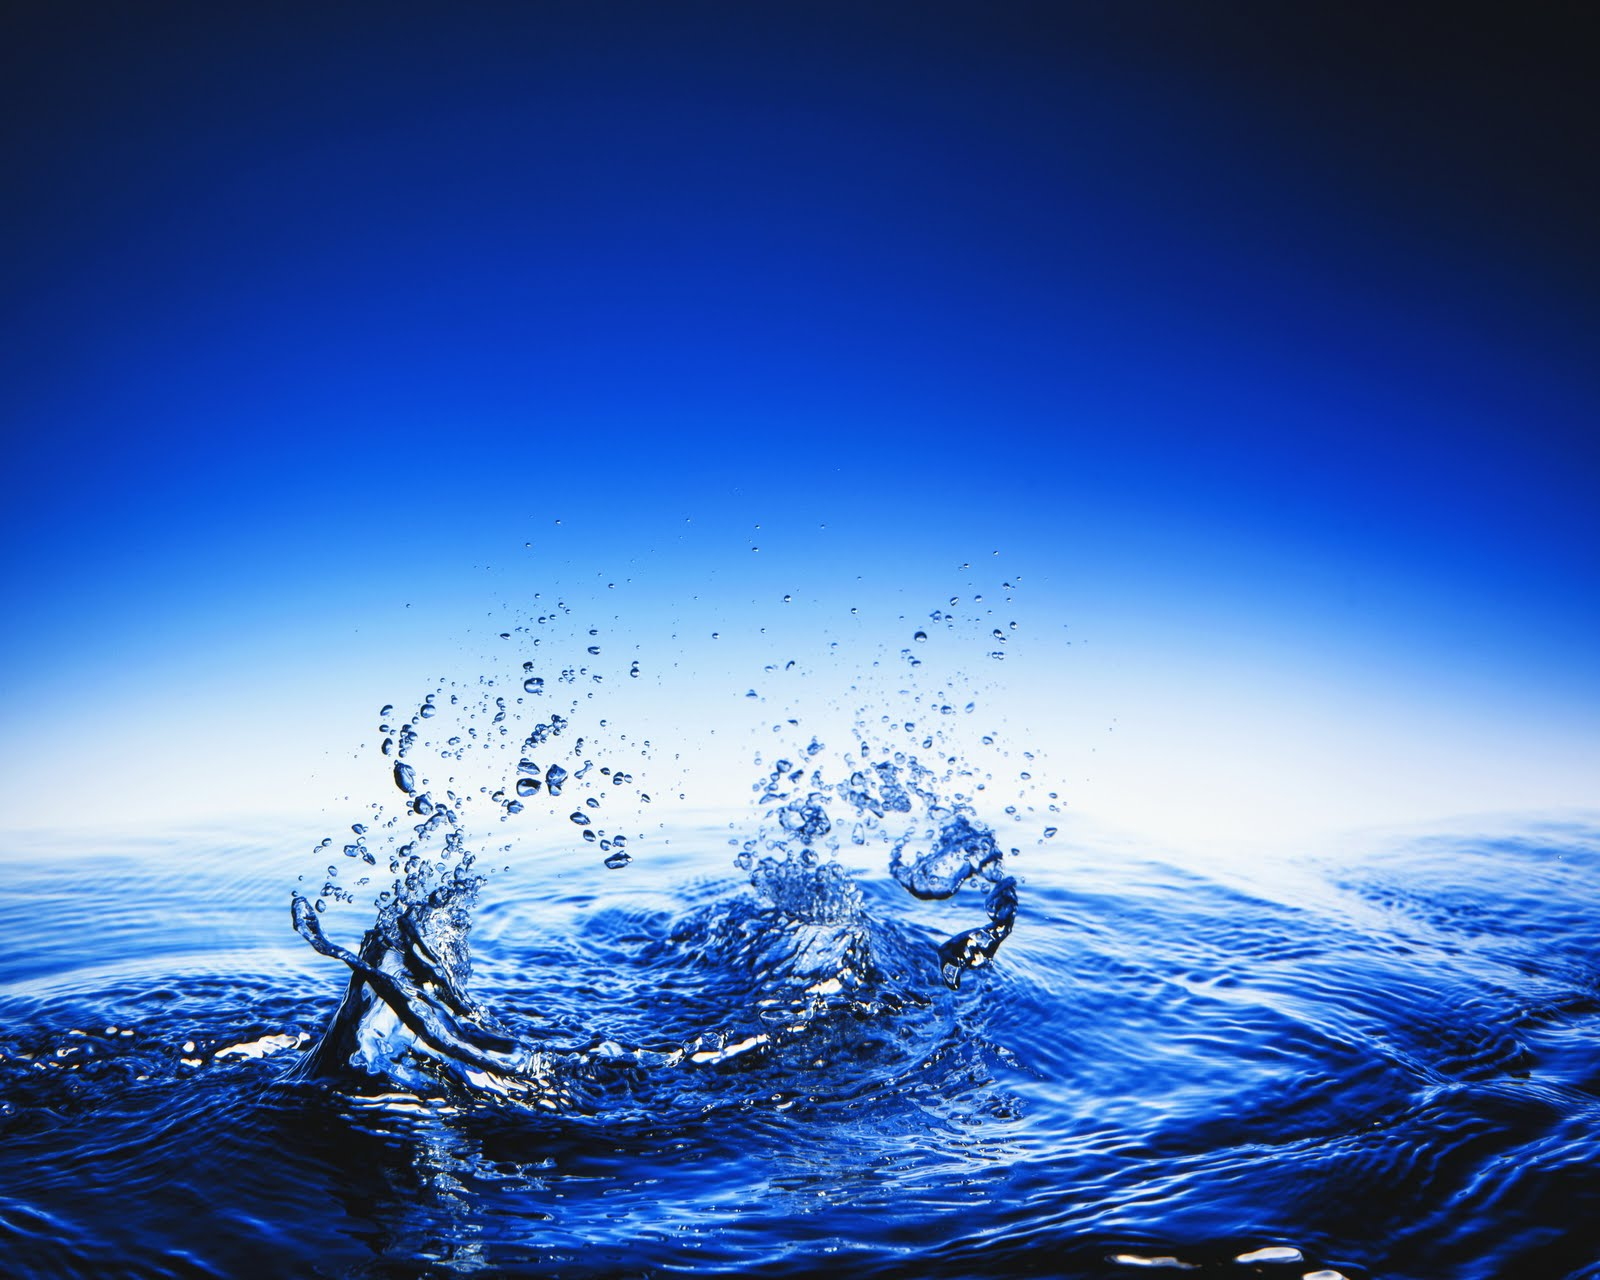
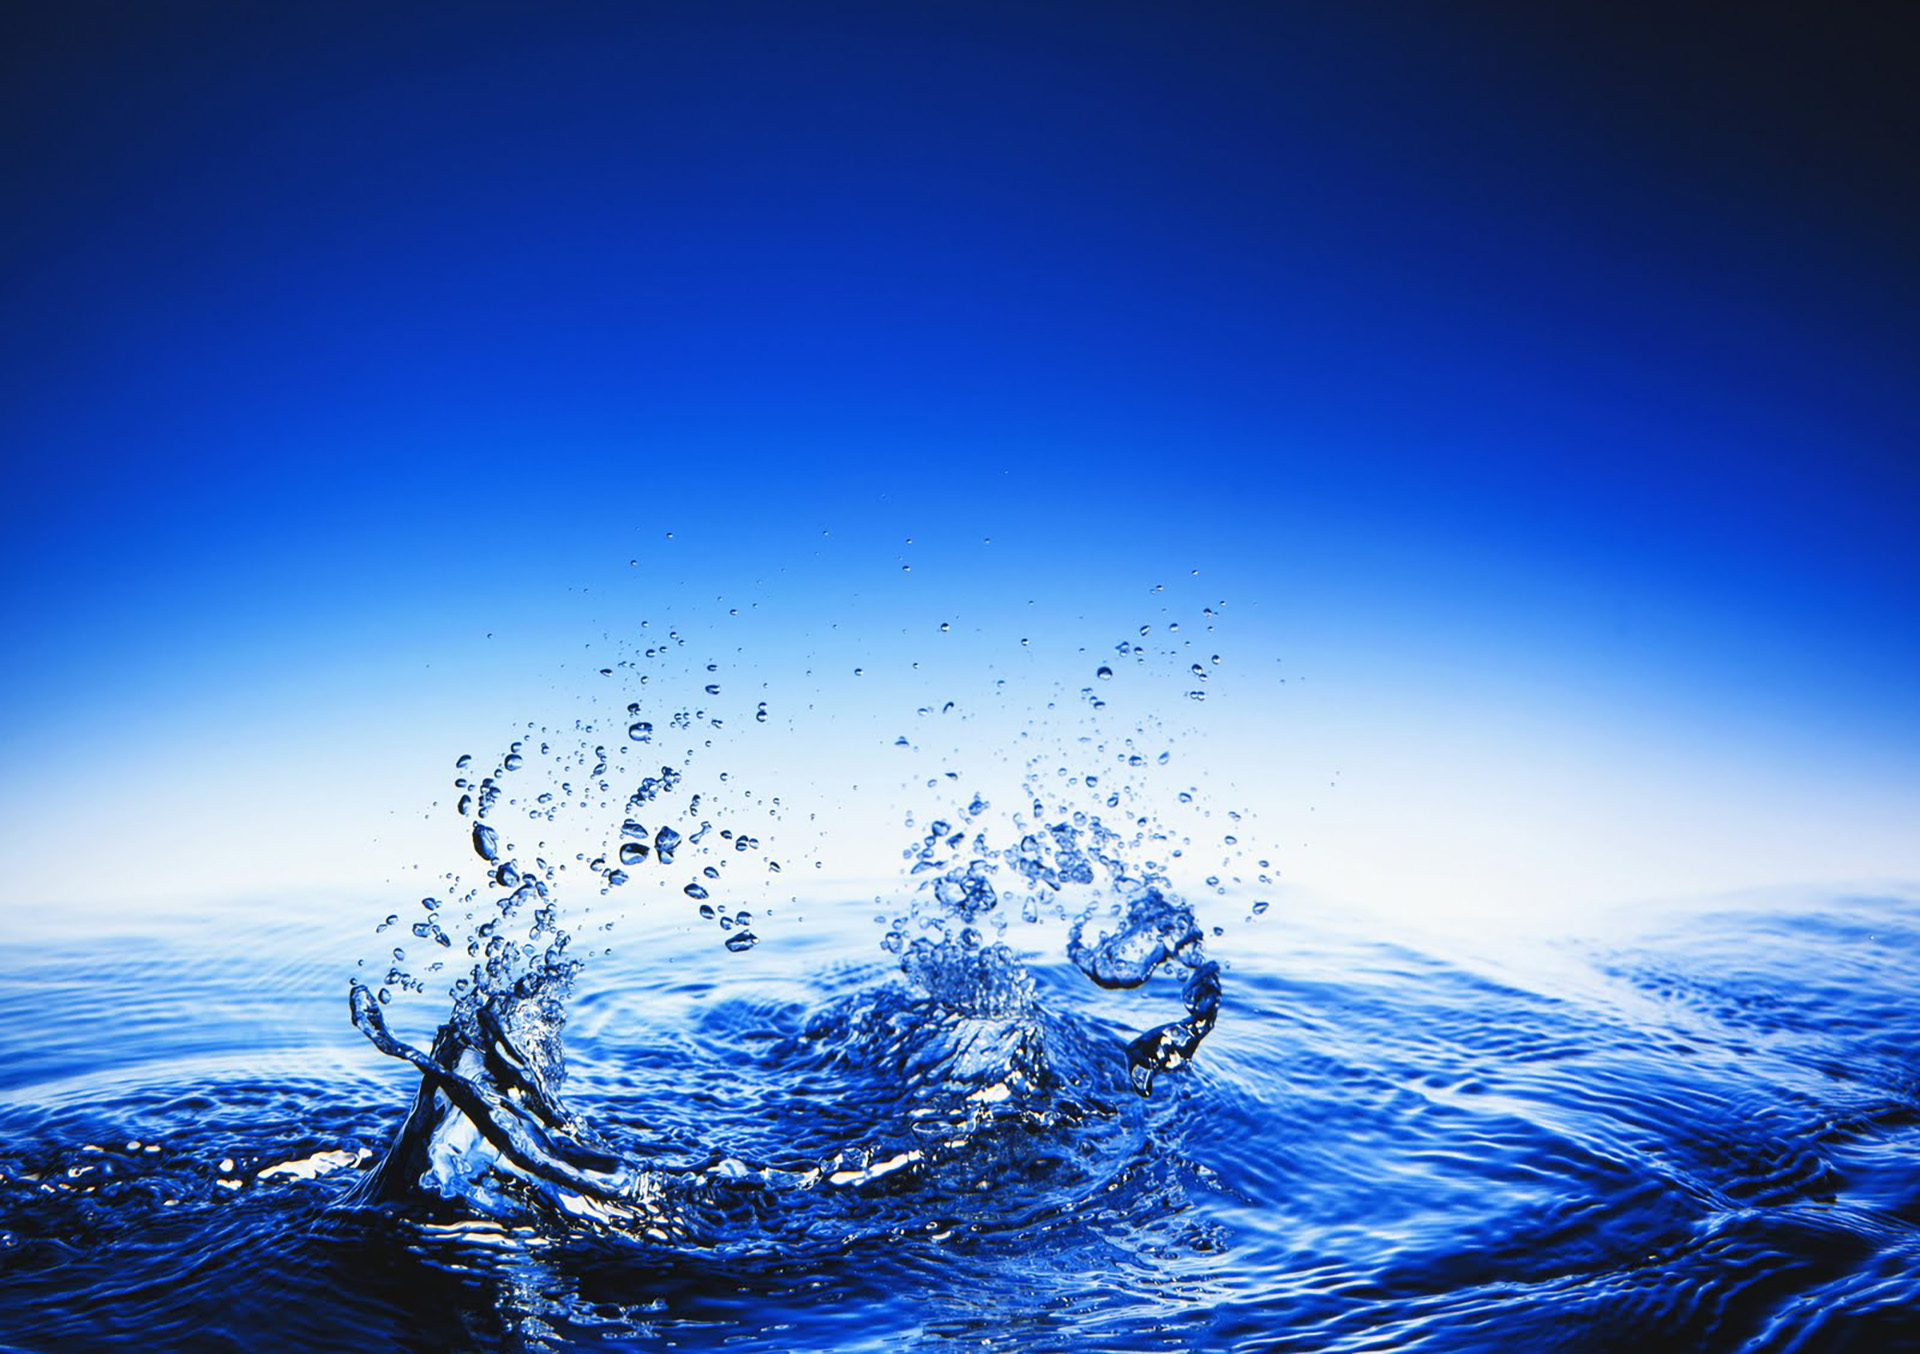
add nav css rules, fix top nav sticky, fix pelaksanaan lat colum border bottom bug

diff --git a/src/main/resources/templates/fragments/general.html b/src/main/resources/templates/fragments/general.html
@@ -76,16 +76,23 @@
         </symbol>
     </svg>
 
-    <nav th:fragment="navigation" class="sb-topnav navbar navbar-expand shadow justify-content-between justify-content-sm-start navbar-light bg-white sb-nav-fixed" id="sidenavAccordion">
+    <nav th:fragment="navigation" class="sb-topnav fixed-top navbar navbar-expand shadow justify-content-between justify-content-sm-start navbar-dark bg-black sb-nav-fixed" id="sidenavAccordion">
         <!-- Navbar Brand-->
         <a class="navbar-brand pe-3 ps-4 ps-lg-2" th:href="@{/}">
             <img th:src="@{/static/assets/img/favicon.png}" alt="Logo" class="d-inline-block align-text-top nav-logo"/>
-            Sistem Informasi Manajemen Biro KSD
+            <span>Sistem Informasi Manajemen Biro KSD</span>
         </a>
-
-        <!-- <h1 class="text-center" style="padding-top:8px;">Sistem Informasi Manajemen Biro KSD</h1> -->
-
-        <a th:href="@{/showLoginPage}" class="btn btn-outline-primary order-1" id="sidebarToggleX">Login_X</a>
+        <button class="navbar-toggler navbar-toggler-right" type="button" data-bs-toggle="collapse" data-bs-target="#navbarResponsive" aria-controls="navbarResponsive" aria-expanded="false" aria-label="Toggle navigation"><span class="navbar-toggler-icon"></span></button>
+        <div class="collapse navbar-collapse" id="navbarResponsive">
+            <ul class="navbar-nav ms-auto my-2 my-lg-0">
+                <li class="nav-item" sec:authorize="!isAuthenticated()" ><a class="nav-link" href="#about">Tentang Kami </a></li>
+                <li class="nav-item" sec:authorize="!isAuthenticated()" ><a class="nav-link" href="#services">Layanan</a></li>
+                <li class="nav-item" sec:authorize="!isAuthenticated()" ><a class="nav-link" href="#portfolio">Portfolio</a></li>
+                <li class="nav-item" sec:authorize="!isAuthenticated()" ><a class="nav-link" href="#contact">Kontak</a></li>
+                <li class="nav-item"><a class="nav-link" sec:authorize="!isAuthenticated()" th:href="@{/showLoginPage}">Login</a></li>
+                <li class="nav-item"><a class="nav-link" sec:authorize="isAuthenticated()" th:href="@{/logout}">Logout</a></li>
+            </ul>
+        </div>
     </nav>     
 
     <!-- Navigation -> Creative -->
@@ -163,7 +170,11 @@
             </div>
             <div class="sb-sidenav-footer sticky-bottom">
                 <div class="small">Logged in as:</div>
-                Start Bootstrap
+                <th:if test="${session.pemakai}">
+                        <div class="sidenav-footer-title"
+                            th:text="${#authentication.name}">
+                        </div>
+                </th:if>
             </div>
         </nav>
     </div>

diff --git a/src/main/resources/static/css/style.css b/src/main/resources/static/css/style.css
@@ -258,3 +258,33 @@ header.masthead {
 .xmarkpath {
     fill: red !important;
 }
+
+navbar-brand {
+    font-size: 2.5rem !important;
+}
+
+/* .navbar-nav {
+    width: 100%;
+    justify-content: center !important;
+} 
+
+.navbar-nav .nav-item:last-child {
+    margin-left: auto !important;
+} */
+
+a.nav-link {
+    color: #fff;
+}
+
+a.navbar-brand > span {
+    vertical-align: middle;
+}
+
+a.nav-link:hover {
+    color: #f4623a;
+}
+
+
+.sb-topnav {
+    height: 74px;
+}

diff --git a/src/main/resources/templates/pelaksanaan.html b/src/main/resources/templates/pelaksanaan.html
@@ -186,7 +186,8 @@
                                         <th>Action</th>
                                     </tr>
                                 </thead>
-                                <tbody class="table-group-divider"></tbody>
+                                <!-- <tbody class="table-group-divider"></tbody> -->
+                                
 
                             </table>
                         </div>
